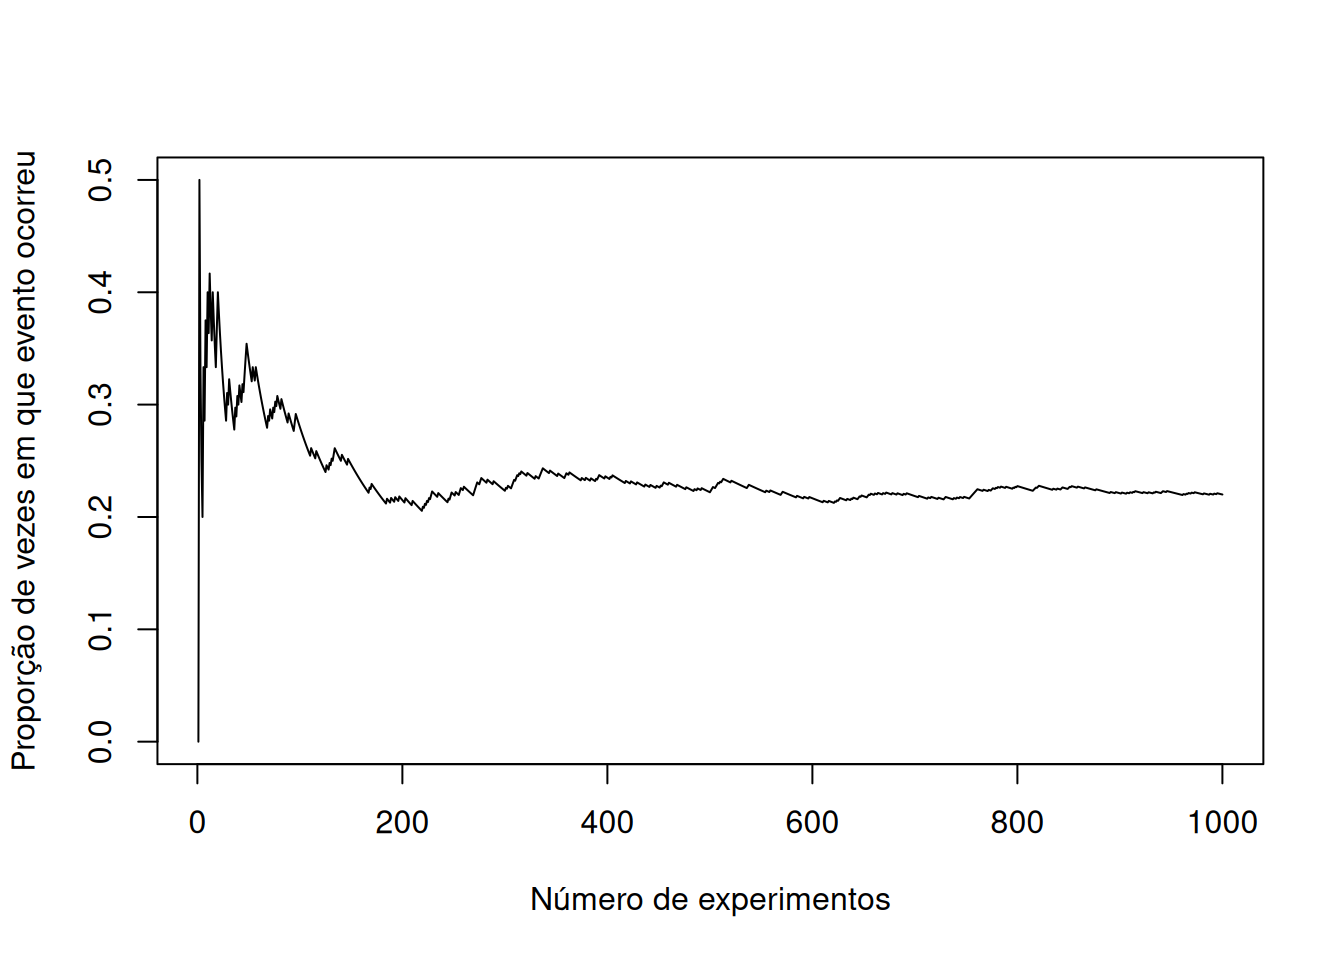
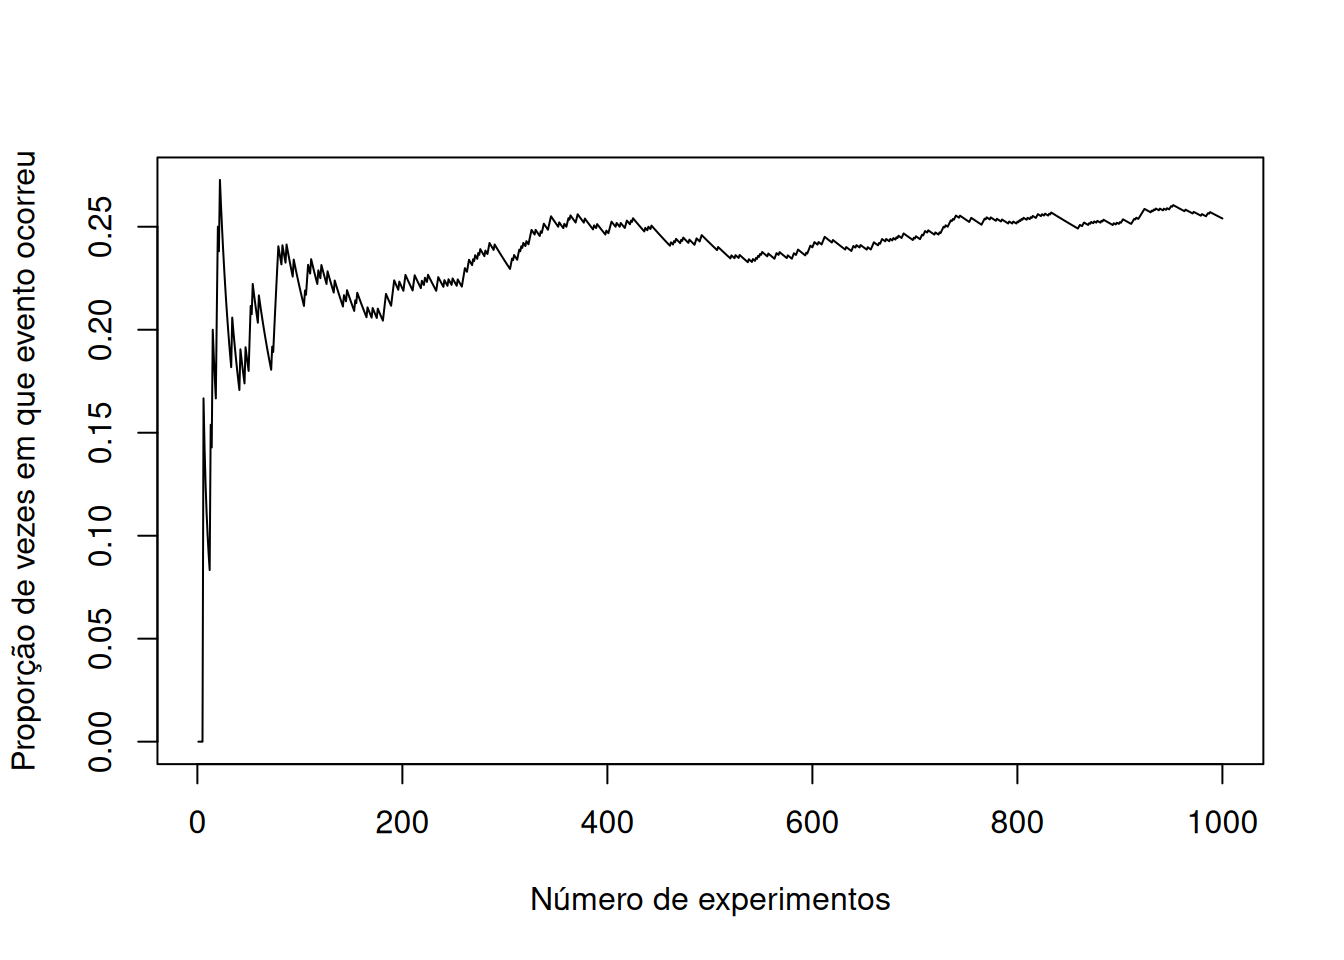
teste de hipótese

diff --git a/content/courses/jurimetria/aulas/07_testes.html b/content/courses/jurimetria/aulas/07_testes.html
@@ -1,0 +1,77 @@
+---
+title: "Testes de Hipótese"
+author: "Rafael B. Stern"
+highlight: true
+date: ""
+type: book
+weight: 70
+bibliography: refs.bib
+---
+
+
+
+<p>É comum que queiramos saber o quanto uma amostra corrobora uma hipótese científica. Neste caso, podemos aplicar um teste de hipótese, isto é, um procedimento que decidirá se a hipótese é ou não rejeitada diante da amostra obtida. A hipótese que está sendo testado é comumente chamada de <strong>hipótese nula</strong>, <span class="math inline">\(H_0\)</span>.</p>
+<p>Por exemplo, considere que <span class="math inline">\(X_1, \ldots, X_n\)</span> indicam a procedência em processos independentes e que <span class="math inline">\(X_i \sim \text{Bernoulli}(\theta)\)</span>. Uma possível hipótese é a de que a taxa populacional de procedência é 50%, isto é <span class="math inline">\(H_0: \theta = 0.5\)</span>.</p>
+<div id="tipos-de-erro" class="section level1">
+<h1>Tipos de erro</h1>
+<p>Existem <span class="math inline">\(4\)</span> possíveis resultados que podem decorrer de um teste de hipótese. Note que o teste de hipótese pode rejeitar ou não rejeitar a hipótese nula e, também, esta hipótese pode ser verdadeira ou falsa. Assim, existem <span class="math inline">\(4\)</span> combinações de resultados possíveis:</p>
+<ul>
+<li>(Acerto) A hipótese nula é verdadeira e não é rejeitada.</li>
+<li>(Acerto) A hipótese nula é falsa e é rejeitada.</li>
+<li>(Erro tipo I) A hipótese nula é verdadeira e é rejeitada.</li>
+<li>(Erro tipo II) A hipótese nula é falsa e não é rejeitada.</li>
+</ul>
+<p>Note que existe um balanço entre os erros tipo I e II. Por exemplo, se quiséssemos que a probabilidade de cometer um erro tipo I fosse 0, então poderíamos nunca rejeitar H. Contudo, neste caso, a probabilidade de cometerum erro tipo II seria 1. Analogamente, se sempre rejeitarmos H, então as probabilidades de erro tipo I e II serão, respectivamente, 1 e 0. Na prática, rejeitamos <span class="math inline">\(H_0\)</span> quando os dados oferecem evidência contrária a este hipótese. Assim, buscamos que as probabilidades de cometer um erro tipo I ou um erro tipo II sejam baixas.</p>
+<p>Uma outra observação importante é que, em geral, não sabemos se cometemos um erro em um teste de hipótese. Para saber se <span class="math inline">\(H_0\)</span> é verdadeiro ou não, seria necessária observar a população.
+Como usualmente só somos capazes de observar a amostra, não somos capazes de determinar se <span class="math inline">\(H_0\)</span> é verdadeiro ou não. Assim, não sabemos se o resultado do teste de hipótese foi um acerto ou um erro.</p>
+<p>Apesar da limitação acima, podemos controlar as probabilidades de erro tipo I e II de um teste. Isto é, podemos desenvolver testes que, antes de observar o banco de dados, tenham uma baixa probabilidade de cometer um erro.</p>
+<p>Convecionou-se que a hipótese nula deve ser escolhida de tal forma que o erro tipo I seja mais grave que o erro tipo II. Por exemplo, pode ser mais grave concluir que um rio não está poluído quando ele está poluído do que concluir que ele está poluído quando de fato não está. Assim, neste caso, tomaríamos a hipótese nula como aquela de que o rio está poluído, pois assim o erro tipo I seria o de rejeitar que o rio está poluído quando ele de fato está. Similarmente, a hipótese científica tomada como hipótese nula geralmente é o <em>status quo</em>.</p>
+<p>Como o erro tipo I é o mais grave, construímos testes de hipótese que diretamente controlam a probabilidade de erro tipo I. Formalmente, determinaremos testes de hipótese tais que o erro tipo I seja menor que um valor pré-determinado, <span class="math inline">\(\alpha\)</span>. É comum que <span class="math inline">\(\alpha\)</span> seja chamado de
+<strong>nível de significância</strong> do teste.</p>
+<div id="exemplo-amostra-bernoulli" class="section level2">
+<h2>Exemplo: Amostra Bernoulli</h2>
+<p>Considere que <span class="math inline">\(X_1, \ldots, X_n\)</span> indicam a procedência em processos independentes e que <span class="math inline">\(X_i \sim \text{Bernoulli}(\theta)\)</span>. Uma possível hipótese é a de que a taxa populacional de procedência é 50%, isto é <span class="math inline">\(H_0: \theta = 0.5\)</span>. Para controlar o erro tipo I em <span class="math inline">\(\alpha\)</span>, rejeitamos <span class="math inline">\(H_0\)</span> se</p>
+<p><span class="math display">\[|\bar{X}-0.5| &gt; \frac{0.5 \cdot qnorm(1-0.5\alpha)}{\sqrt{n}}.\]</span>
+<strong>Observação</strong>: Verifique <span class="math inline">\(H_0\)</span> é rejeitado quando o intervalo de confiança 95% para <span class="math inline">\(\theta\)</span> não contém o valor <span class="math inline">\(0.5\)</span>.</p>
+</div>
+<div id="exemplo-amostra-normal" class="section level2">
+<h2>Exemplo: Amostra Normal</h2>
+<p>Considere que <span class="math inline">\(X_1, \ldots, X_n\)</span> indicam o valor da causa em processos independentes e que <span class="math inline">\(X_i \sim \text{N}(\mu,\sigma^2)\)</span>. Rejeitamos <span class="math inline">\(H_0: \mu = \mu_0\)</span> se</p>
+<p><span class="math display">\[|\bar{X}-\mu_0| &gt; \frac{S \cdot qnorm(1-0.5\alpha)}{\sqrt{n}}.\]</span>
+<strong>Observação</strong>: Verifique <span class="math inline">\(H_0\)</span> é rejeitado quando o intervalo de confiança 95% para <span class="math inline">\(\mu\)</span> não contém o valor <span class="math inline">\(\mu_0\)</span>.</p>
+</div>
+</div>
+<div id="p-valor" class="section level1">
+<h1>P-valor</h1>
+<p>Na amostra estudada no exemplo anterior,
+verificamos que se fixássemos <span class="math inline">\(\alpha = 0.05\)</span>,
+então o teste rejeitaria a hipótese nula.
+Por outro lado, se fixássemos <span class="math inline">\(\alpha = 0.01\)</span>,
+o teste não rejeitaria a hipótese nula.
+Isto ocorre pois quanto menor o valor de <span class="math inline">\(\alpha\)</span>,
+mais o teste fica conservador em rejeitar <span class="math inline">\(H_0\)</span>.
+Decorre deste comportamento que,
+enquanto que para valores “grandes” de <span class="math inline">\(\alpha\)</span>,
+o teste rejeitará <span class="math inline">\(H_0\)</span>,
+para valores “pequenos” de <span class="math inline">\(\alpha\)</span>
+o teste não rejeitará <span class="math inline">\(H_0\)</span>.</p>
+<p>Um valor de interesse é o menor <span class="math inline">\(\alpha\)</span>
+tal que o teste rejeita <span class="math inline">\(H_0\)</span> para a amostra observada.
+Este <span class="math inline">\(\alpha^*\)</span> é comumente chamado de <strong>p-valor</strong>.
+Este valor pode ser muito útil
+para compartilhar resultados.
+Note que, para a amostra observada,
+se um pesquisador fixar um <span class="math inline">\(\alpha &gt; \alpha^*\)</span>,
+então ele rejeitará <span class="math inline">\(H_0\)</span>. Por outro lado,
+se ele fixar <span class="math inline">\(\alpha &lt; \alpha^*\)</span>,
+então não rejeitará <span class="math inline">\(H_0\)</span>. Assim,
+somente comparando o p-valor com o <span class="math inline">\(\alpha\)</span> fixado,
+é possível saber o resultado do teste.
+Portanto, mesmo pesquisadores fixando
+níveis de significância diferentes podem
+saber o resultado do teste de hipótese apenas
+observando o p-valor.</p>
+</div>
+<div id="referências" class="section level1">
+<h1>Referências</h1>
+</div>

diff --git a/content/courses/jurimetria/aulas/06_ic.html b/content/courses/jurimetria/aulas/06_ic.html
@@ -1,18 +1,15 @@
 ---
-title: "Inferência Estatística"
+title: "Intervalos de Confiança"
 author: "Rafael B. Stern"
 highlight: true
 date: ""
-type: docs
-toc: true
+output: html_document
+type: book
 weight: 60
 bibliography: refs.bib
 ---
 
 
-<div id="TOC">
-
-</div>
 
 <div id="inferência-estatística-e-parâmetros" class="section level1">
 <h1>Inferência estatística e parâmetros</h1>
@@ -80,7 +77,7 @@ aux %&gt;%
   theme(axis.text.x = element_text(angle = 30, hjust = 1)) +
   ylab(&quot;Taxa de Reforma&quot;) +
   xlab(&quot;Câmara de Direito Penal&quot;)</code></pre>
-<p><img src="/courses/jurimetria/aulas/06_inferencia_files/figure-html/unnamed-chunk-2-1.png" width="672" /></p>
+<p><img src="/courses/jurimetria/aulas/06_ic_files/figure-html/unnamed-chunk-2-1.png" width="672" /></p>
 <p>Os pontos azuis indicam a taxa de reforma empírica que foi observada para cada Câmara. Existem duas possíveis explicações quando uma taxa de reforma é maior do que outra: ou uma Câmara sistematicamente reforma sentenças mais frequentemente do que outra, ou este padrão é observado na amostra por mera flutuação aleatória dos dados. Podemos utilizar os intervalos de confiança para diferenciar entre estes casos.</p>
 <p>Por um lado, podemos comparar as taxas de reforma da <span class="math inline">\(1^a\)</span> e da <span class="math inline">\(2^a\)</span> Câmaras. Na amostra, observamos que a taxa de reforma da <span class="math inline">\(1^a\)</span> Câmara é maior do que aquela da <span class="math inline">\(2^a\)</span>. Contudo, observamos que seus respectivos intervalos de confiança assumem valores em comum. Isto é, é plausível que as taxas de reforma populacionais de ambas as Câmaras sejam iguais. Assim, não encontramos indícios suficientemente fortes de que as taxas de reforma populacionais destas Câmaras sejam distintos.</p>
 <p>Por outro lado, podemos comparar as taxas de reforma da <span class="math inline">\(1^a\)</span> e da <span class="math inline">\(4^a\)</span> Câmaras. Novamente,
@@ -126,14 +123,15 @@ aux %&gt;%
   theme(axis.text.x = element_text(angle = 30, hjust = 1)) +
   ylab(&quot;Valor da Causa&quot;) +
   xlab(&quot;Assunto&quot;)</code></pre>
-<p><img src="/courses/jurimetria/aulas/06_inferencia_files/figure-html/unnamed-chunk-3-1.png" width="672" /></p>
+<p><img src="/courses/jurimetria/aulas/06_ic_files/figure-html/unnamed-chunk-3-1.png" width="672" /></p>
 <p>Estes intervalos podem ser interpretados similarmente àqueles obtidos para taxas de reforma em Câmaras Criminais. Quais conclusões você consegue tirar deste gráfico?</p>
 </div>
 <div id="a-interpretação-de-intervalos-de-confiança" class="section level2">
 <h2>A Interpretação de Intervalos de Confiança</h2>
+<p>Para interpretar corretamente intervalos de confiança, um experimento mental pode ser útil. Considere cada um de <span class="math inline">\(10.000\)</span> pesquisadores coleta dados sobre <span class="math inline">\(100\)</span> processos distintos da mesma população. Se cada pesquisador construir um intervalo de confiança 95% para o valor da causa, então cerca de <span class="math inline">\(9.500\)</span> dos pesquisadores construirá um intervalo que cobre a média populacional para o valor da causa. Este experimento mental pode ser simulado da seguinte forma:</p>
 <pre class="r"><code>alpha = 0.05
-mu = 2
-sigma = 4
+mu = 20000
+sigma = 150
 n = 100
 num_experimentos = 10000
 sucessos = 0
@@ -145,7 +143,7 @@ for(ii in 1:num_experimentos)
   sucessos = sucessos + (mu &gt; l1 &amp; mu &lt; l2)
 }
 sucessos/num_experimentos</code></pre>
-<pre><code>## [1] 0.9496</code></pre>
+<pre><code>## [1] 0.9472</code></pre>
 </div>
 </div>
 <div id="exercícios" class="section level1">

diff --git a/content/courses/jurimetria/aulas/05_probabilidade.html b/content/courses/jurimetria/aulas/05_probabilidade.html
@@ -1,5 +1,5 @@
 ---
-title: "Probabilidade e quantificação de incerteza"
+title: "Probabilidade"
 author: "Rafael B. Stern"
 highlight: true
 date: ""

diff --git a/content/courses/jurimetria/aulas/04_visualizacao.html b/content/courses/jurimetria/aulas/04_visualizacao.html
@@ -1,5 +1,5 @@
 ---
-title: "Visualização de Dados"
+title: "Visualização"
 author: "Rafael B. Stern"
 highlight: true
 date: ""

diff --git a/content/courses/jurimetria/aulas/02_pesquisa.html b/content/courses/jurimetria/aulas/02_pesquisa.html
@@ -1,5 +1,5 @@
 ---
-title: "Projeto de Pesquisa"
+title: "Projeto"
 author: "Rafael B. Stern"
 highlight: true
 date: ""
